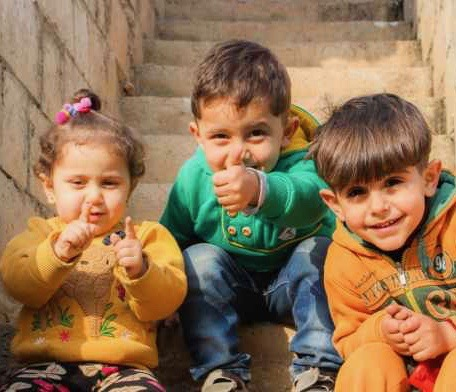
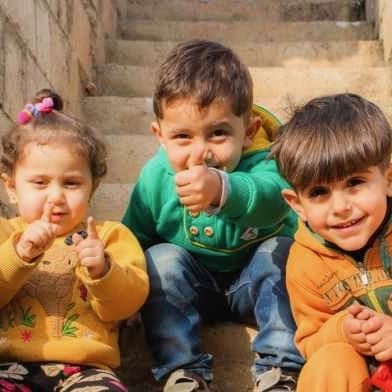
resizing pictures

diff --git a/css/common.css b/css/common.css
@@ -5,31 +5,17 @@ nav {
     background-size: cover;
 }
 
-main {
-    padding: 40px 0;
-    background-image: url('../img/background.jpg');
-    background-repeat: no-repeat;
-    background-attachment: fixed;
-    background-size: cover;
-}
-
-.hidden::before {
-    content: '';
-    display: block;
-    height: 180px;
-}
-
-.charity {
-    height: 500px;
-    border-radius: 50px;
-}
+/* main {
+       padding: 0 40px;
+} */
 
 h1{
   color: #f8f9fa;
+  text-shadow: -1px 1px 0 #000, 1px 1px 0 #000, 1px -1px 0 #000, -1px -1px 0 #000;
   text-align: center;
+  padding: 5%;
   font-size: 4em;
-  margin: 50px 0;
-
+  align-items: center;
 }
 h2 {
     color: #343a40;
@@ -37,50 +23,150 @@ h2 {
     font-size: 4em;
     margin: 50px 0;
 }
-
-img {
-    display: flex;
-    padding: 20px;
-    margin: 0 auto;
-}
 .jumbotron{
   background-image: url('../img/background.jpg');
   background-size: cover;
   background-attachment: fixed;
+  background-repeat: no-repeat;
   min-height: 600px;
   color:white;
 }
 
-figure {
-    margin: 0;
+#register {
+  margin-left: 2%;
+  color: #fff;
+  background-color: #007bff;
+  border-color: #007bff;
+}
+#register:hover {
+  color: #fff;
+  background-color: #0069d9;
+  border-color: #0062cc;
+}
+#signin {
+  margin-left: 2%;
+  color: #007bff;
+  background-color: #fff;
+  border-color: #007bff;
+}
+#signin:hover {
+  color: #000099;
+  background-color: #fff;
+  border-color: #0062cc;
 }
 
-figure img {
-    width: 650px;
-    border-radius: 360px;
-	height: auto;
-	-webkit-transition: .3s ease-in-out;
-	transition: .3s ease-in-out;
+.btn-outline-success {
+  background-color: #25B049;
+  color: white;
+  border-color: none;
 }
-figure:hover img {
-    cursor: pointer;
-	width: 450px;
+
+
+
+.blabla {
+  display: flex;
+  align-items: center;
+  justify-content: center;
 }
-.btn-Twitter {
+div.row {
+  width: 100%;
+  display: flex;
+  justify-content: space-around;
+  align-items: center;
+}
+.tableBubbles {
+  width: 100%;
+  display: table;
+  justify-content: space-around;
+}
+
+.children .diseases .homeless .animals {
+  display: table-cell;
+  text-align: center;
+  width: 100%;
+}
+img {
+   /* display: flex; */
+   padding: 20px;
+   margin: 0;
+   align-items: center;
+   border-radius: 360px;
+
+}
+img:hover {
+  /* cursor: pointer; */
+  width: 110%;
+  /* transition: 5s ease; not working... */
+}
+
+
+/* .hidden::before {
+    content: '';
+    display: flex;
+    align-content: center;
+    justify-content: center;
+    height: 180px;
+
+} */
+/* #home {
+  margin: 0;
+} */
+
+/* .charity {
+    height: 500px;
+    border-radius: 50px;
+} I don't think it's doing anything */
+
+
+
+#mission {
+  margin-left: 7%;
+  margin-right: 7%;
+  margin-bottom: 10%;
+  font-family: Arial;
+  color: white;
+  background-color: #A7A6A6;
+  border-radius: 15px;
+  padding: 3%;
+  font-style: italic;
+  text-align: justify;
+}
+.text-muted {
+  margin:20px 0px;
+}
+
+
+/* social buttons */
+.btn-twitter {
   background: #00acee;
   border-color: #009ad5;
   color: white;
 }
-.btn-facebook{
+.btn-facebook {
   background: #4868ac;
   border-color: #314776;
   color: white;
 }
-.btn-pinterest{
+.btn-pinterest {
   background: #b62f26;
   border-color: #b62f26;
-  color:white;
+  color: white;
 }
-.search_button {
-  align-items: center;
+div.socialbuttons {
+  padding: 0;
+  display: flex;
+  flex-direction: column;
+  justify-content: flex-end;
+  align-items: flex-end;
+  width: 12%;
+  position: fixed;
+  bottom: 5%;
+  right: 0;
+}
+.btnSB {
+  width: 100%;
+  margin-bottom: 4%;
+  padding: 10%;
+  border: 1px;
+  border-radius: 0.25rem;
 }
